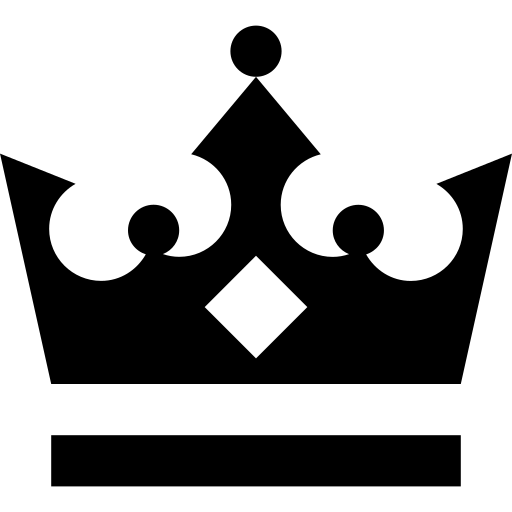
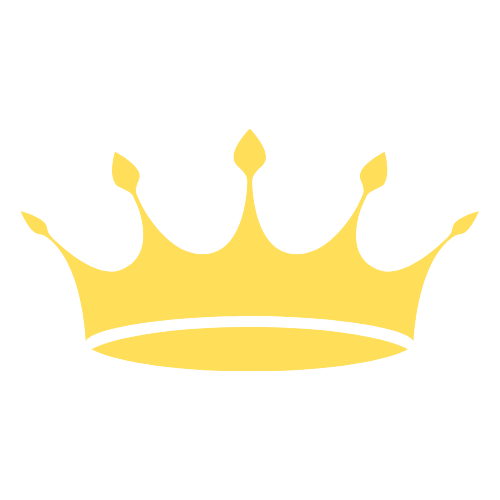
modify date, countdown, msg

diff --git a/build/index.html b/build/index.html
@@ -1,1 +1,1 @@
-<!doctype html><html lang="en"><head><meta charset="utf-8"/><link rel="icon" href="/favicon.ico"/><meta name="viewport" content="width=device-width,initial-scale=1"/><meta name="theme-color" content="#000000"/><meta name="description" content="Cuenta atras para el cumple de more"/><meta property="og:image" content="/logo-crown-page-preview.png"/><meta name="keywords" content="more, cumple, 15"/><meta name="dani54196" content="quice de more"/><meta http-equiv="Permissions-Policy" content="interest-cohort=()"><link rel="apple-touch-icon" href="/logo192.png"/><link rel="manifest" href="/manifest.json"/><title>15 de More</title><link href="/static/css/main.aa045fdc.chunk.css" rel="stylesheet"></head><body><noscript>You need to enable JavaScript to run this app.</noscript><div id="root"></div><script>!function(e){function r(r){for(var n,i,l=r[0],f=r[1],a=r[2],c=0,s=[];c<l.length;c++)i=l[c],Object.prototype.hasOwnProperty.call(o,i)&&o[i]&&s.push(o[i][0]),o[i]=0;for(n in f)Object.prototype.hasOwnProperty.call(f,n)&&(e[n]=f[n]);for(p&&p(r);s.length;)s.shift()();return u.push.apply(u,a||[]),t()}function t(){for(var e,r=0;r<u.length;r++){for(var t=u[r],n=!0,l=1;l<t.length;l++){var f=t[l];0!==o[f]&&(n=!1)}n&&(u.splice(r--,1),e=i(i.s=t[0]))}return e}var n={},o={1:0},u=[];function i(r){if(n[r])return n[r].exports;var t=n[r]={i:r,l:!1,exports:{}};return e[r].call(t.exports,t,t.exports,i),t.l=!0,t.exports}i.m=e,i.c=n,i.d=function(e,r,t){i.o(e,r)||Object.defineProperty(e,r,{enumerable:!0,get:t})},i.r=function(e){"undefined"!=typeof Symbol&&Symbol.toStringTag&&Object.defineProperty(e,Symbol.toStringTag,{value:"Module"}),Object.defineProperty(e,"__esModule",{value:!0})},i.t=function(e,r){if(1&r&&(e=i(e)),8&r)return e;if(4&r&&"object"==typeof e&&e&&e.__esModule)return e;var t=Object.create(null);if(i.r(t),Object.defineProperty(t,"default",{enumerable:!0,value:e}),2&r&&"string"!=typeof e)for(var n in e)i.d(t,n,function(r){return e[r]}.bind(null,n));return t},i.n=function(e){var r=e&&e.__esModule?function(){return e.default}:function(){return e};return i.d(r,"a",r),r},i.o=function(e,r){return Object.prototype.hasOwnProperty.call(e,r)},i.p="/";var l=this["webpackJsonpmore-mis-15"]=this["webpackJsonpmore-mis-15"]||[],f=l.push.bind(l);l.push=r,l=l.slice();for(var a=0;a<l.length;a++)r(l[a]);var p=f;t()}([])</script><script src="/static/js/2.a24ed293.chunk.js"></script><script src="/static/js/main.98c99594.chunk.js"></script></body></html>
+<!doctype html><html lang="en"><head><meta charset="utf-8"/><link rel="icon" href="/favicon.ico"/><meta name="viewport" content="width=device-width,initial-scale=1"/><meta name="theme-color" content="#000000"/><meta name="description" content="Cuenta atras para el cumple de more"/><meta property="og:image" href="/logo-crown-page-preview.png"/><meta name="keywords" content="more, cumple, 15"/><meta name="dani54196" content="quice de more"/><meta http-equiv="Permissions-Policy" content="interest-cohort=()"><link rel="apple-touch-icon" href="/logo192.png"/><link rel="manifest" href="/manifest.json"/><title>15 de More</title><link href="/static/css/main.aa045fdc.chunk.css" rel="stylesheet"></head><body><noscript>You need to enable JavaScript to run this app.</noscript><div id="root"></div><script>!function(e){function r(r){for(var n,i,l=r[0],f=r[1],a=r[2],c=0,s=[];c<l.length;c++)i=l[c],Object.prototype.hasOwnProperty.call(o,i)&&o[i]&&s.push(o[i][0]),o[i]=0;for(n in f)Object.prototype.hasOwnProperty.call(f,n)&&(e[n]=f[n]);for(p&&p(r);s.length;)s.shift()();return u.push.apply(u,a||[]),t()}function t(){for(var e,r=0;r<u.length;r++){for(var t=u[r],n=!0,l=1;l<t.length;l++){var f=t[l];0!==o[f]&&(n=!1)}n&&(u.splice(r--,1),e=i(i.s=t[0]))}return e}var n={},o={1:0},u=[];function i(r){if(n[r])return n[r].exports;var t=n[r]={i:r,l:!1,exports:{}};return e[r].call(t.exports,t,t.exports,i),t.l=!0,t.exports}i.m=e,i.c=n,i.d=function(e,r,t){i.o(e,r)||Object.defineProperty(e,r,{enumerable:!0,get:t})},i.r=function(e){"undefined"!=typeof Symbol&&Symbol.toStringTag&&Object.defineProperty(e,Symbol.toStringTag,{value:"Module"}),Object.defineProperty(e,"__esModule",{value:!0})},i.t=function(e,r){if(1&r&&(e=i(e)),8&r)return e;if(4&r&&"object"==typeof e&&e&&e.__esModule)return e;var t=Object.create(null);if(i.r(t),Object.defineProperty(t,"default",{enumerable:!0,value:e}),2&r&&"string"!=typeof e)for(var n in e)i.d(t,n,function(r){return e[r]}.bind(null,n));return t},i.n=function(e){var r=e&&e.__esModule?function(){return e.default}:function(){return e};return i.d(r,"a",r),r},i.o=function(e,r){return Object.prototype.hasOwnProperty.call(e,r)},i.p="/";var l=this["webpackJsonpmore-mis-15"]=this["webpackJsonpmore-mis-15"]||[],f=l.push.bind(l);l.push=r,l=l.slice();for(var a=0;a<l.length;a++)r(l[a]);var p=f;t()}([])</script><script src="/static/js/2.a24ed293.chunk.js"></script><script src="/static/js/main.98c99594.chunk.js"></script></body></html>

diff --git a/src/Countdown.jsx b/src/Countdown.jsx
@@ -1,19 +1,19 @@
 import React from 'react';
 import Wish from './Wish';
 
+import crown from "./img/crown.png"
+
 const Countdown = ({ countdownData, name }) => {
   if (!countdownData.isItBday) {
     return (
       <div>
-        <h1 className='heading'>
-          Cuenta atrás para el cumple de <span className='highlight'>{name}</span>
-        </h1>
         <div className='countdown-wrapper'>
           <div className='countdown-box'>
+          <span className='legend'>Faltan</span>
             {countdownData.days}
             <span className='legend'>Días</span>
           </div>
-          <div className='countdown-box'>
+          {/* <div className='countdown-box'>
             {countdownData.hours}
             <span className='legend'>Horas</span>
           </div>
@@ -24,8 +24,11 @@ const Countdown = ({ countdownData, name }) => {
           <div className='countdown-box'>
             {countdownData.seconds}
             <span className='legend'>Segundos</span>
-          </div>
+          </div> */}
         </div>
+        <h1 >Preparate...</h1>
+        <h1 className='heading'><span className='highlight'>{name}  </span></h1>
+        <img src={crown} width="70"/>
       </div>
     );
   } else {

diff --git a/src/Birthday.jsx b/src/Birthday.jsx
@@ -15,7 +15,7 @@ const Birthday = ({ name, day, month }) => {
 
   if (name === undefined || day === undefined || month === undefined) {
     // This is if not enough params are provided
-    name = 'More'; // Name of the Person
+    name = 'Morena'; // Name of the Person
     month = 4; // Month of the Birthday
     day = 20; // Day of the Birthday
   }
@@ -104,20 +104,20 @@ const Birthday = ({ name, day, month }) => {
 
   return (
     <div className='page'>
-      <Countdown countdownData={state} name={name} />
       {!isItBday && (
         <>
           <div className='birthdate'>
-            Día del quince: {day} {monthBday} {currentYear}
+            {day} de {monthBday} de {2024}
           </div>
           {/* <div className='credits'>
             <a href='https://github.com/x1-il'>
               <img src={githubLogo} alt='Github-Logo' className='github-logo' />
             </a>
           </div>
-          <Link to='/generate'>Generate Here</Link> */}
+        <Link to='/generate'>Generate Here</Link> */}
         </>
       )}
+      <Countdown countdownData={state} name={name} />
     </div>
   );
 };

diff --git a/src/App.css b/src/App.css
@@ -1,11 +1,12 @@
-@import url('https://fonts.googleapis.com/css2?family=Montserrat:ital,wght@0,100;0,200;0,300;0,400;0,500;0,600;0,700;0,800;1,100;1,200&display=swap');
+@import url('https://fonts.googleapis.com/css2?family=Fira+Sans:wght@200&display=swap');
+/* @import url('https://fonts.googleapis.com/css2?family=Montserrat:ital,wght@0,100;0,200;0,300;0,400;0,500;0,600;0,700;0,800;1,100;1,200&display=swap'); */
 
 /* VARIABLES */
 :root {
   --bg-color: #e0e0e0;
   --main-bg-color-dark: #fdfdfd;
   --main-text-color-dark: #161616;
-  --name-color-text: #b28d00;
+  --name-color-text: #FFDE59;
   --box-color-bg: #4b4b4b;
   --box-color-dhms: #FFDE59;
   --box-color-text: #f5f5f5;
@@ -36,7 +37,7 @@ body {
   text-align: center;
 }
 .heading {
-  font-size: 45px;
+  font-size: 75px;
 }
 .highlight {
   color: var(--name-color-text);
@@ -73,7 +74,7 @@ body {
   font-weight: 700;
 }
 .birthdate {
-  font-size: 25px;
+  font-size: 55px;
   font-weight: 600;
   color: var(--text-birthday);
 }

diff --git a/src/Generate.jsx b/src/Generate.jsx
@@ -31,9 +31,7 @@ const Generate = () => {
         />
         <select value={month} onChange={(e) => setMonth(e.target.value)}>
           <option value=''>Select Month</option>
-          <option selected value='1'>
-            January
-          </option>
+          <option selected value='1'>January</option>
           <option value='2'>February</option>
           <option value='3'>March</option>
           <option value='4'>April</option>

diff --git a/build/service-worker.js b/build/service-worker.js
@@ -14,7 +14,7 @@
 importScripts("https://storage.googleapis.com/workbox-cdn/releases/4.3.1/workbox-sw.js");
 
 importScripts(
-  "/precache-manifest.6b1abdb0c841c93a80a926c7efbfaa88.js"
+  "/precache-manifest.aa3a796b571ec8b6d23d6fd37c51a1e6.js"
 );
 
 self.addEventListener('message', (event) => {

diff --git a/public/index.html b/public/index.html
@@ -42,4 +42,13 @@
       To create a production bundle, use `npm run build` or `yarn build`.
     -->
   </body>
+
+<!--
+  by softwareofsouth
+  CONTACT
+  mail: danicardozo@dc.uba.ar
+  gh: github.com/dani54196
+  repo: https://github.com/dani54196/moremis15
+  =D
+-->
 </html>

diff --git a/README.md b/README.md
@@ -11,7 +11,7 @@ Made with React with Hooks.
 
 ## Getting started
 
-You can view a live demo over at https://birthday-chrono.netlify.app/
+You can view a live demo over at https://moremis15.online
 
 To get It running locally:
 

diff --git a/todo.md b/todo.md
@@ -3,8 +3,10 @@
 # TODO
 - [x] generate site
 - [x] countdown
-- [ ] colors
-- [ ] domain
-- [ ] dns
-- [ ] publish
+- [x] colors
+- [x] domain
+- [x] dns
+- [x] publish
 
+### updates
+in the future the page 
